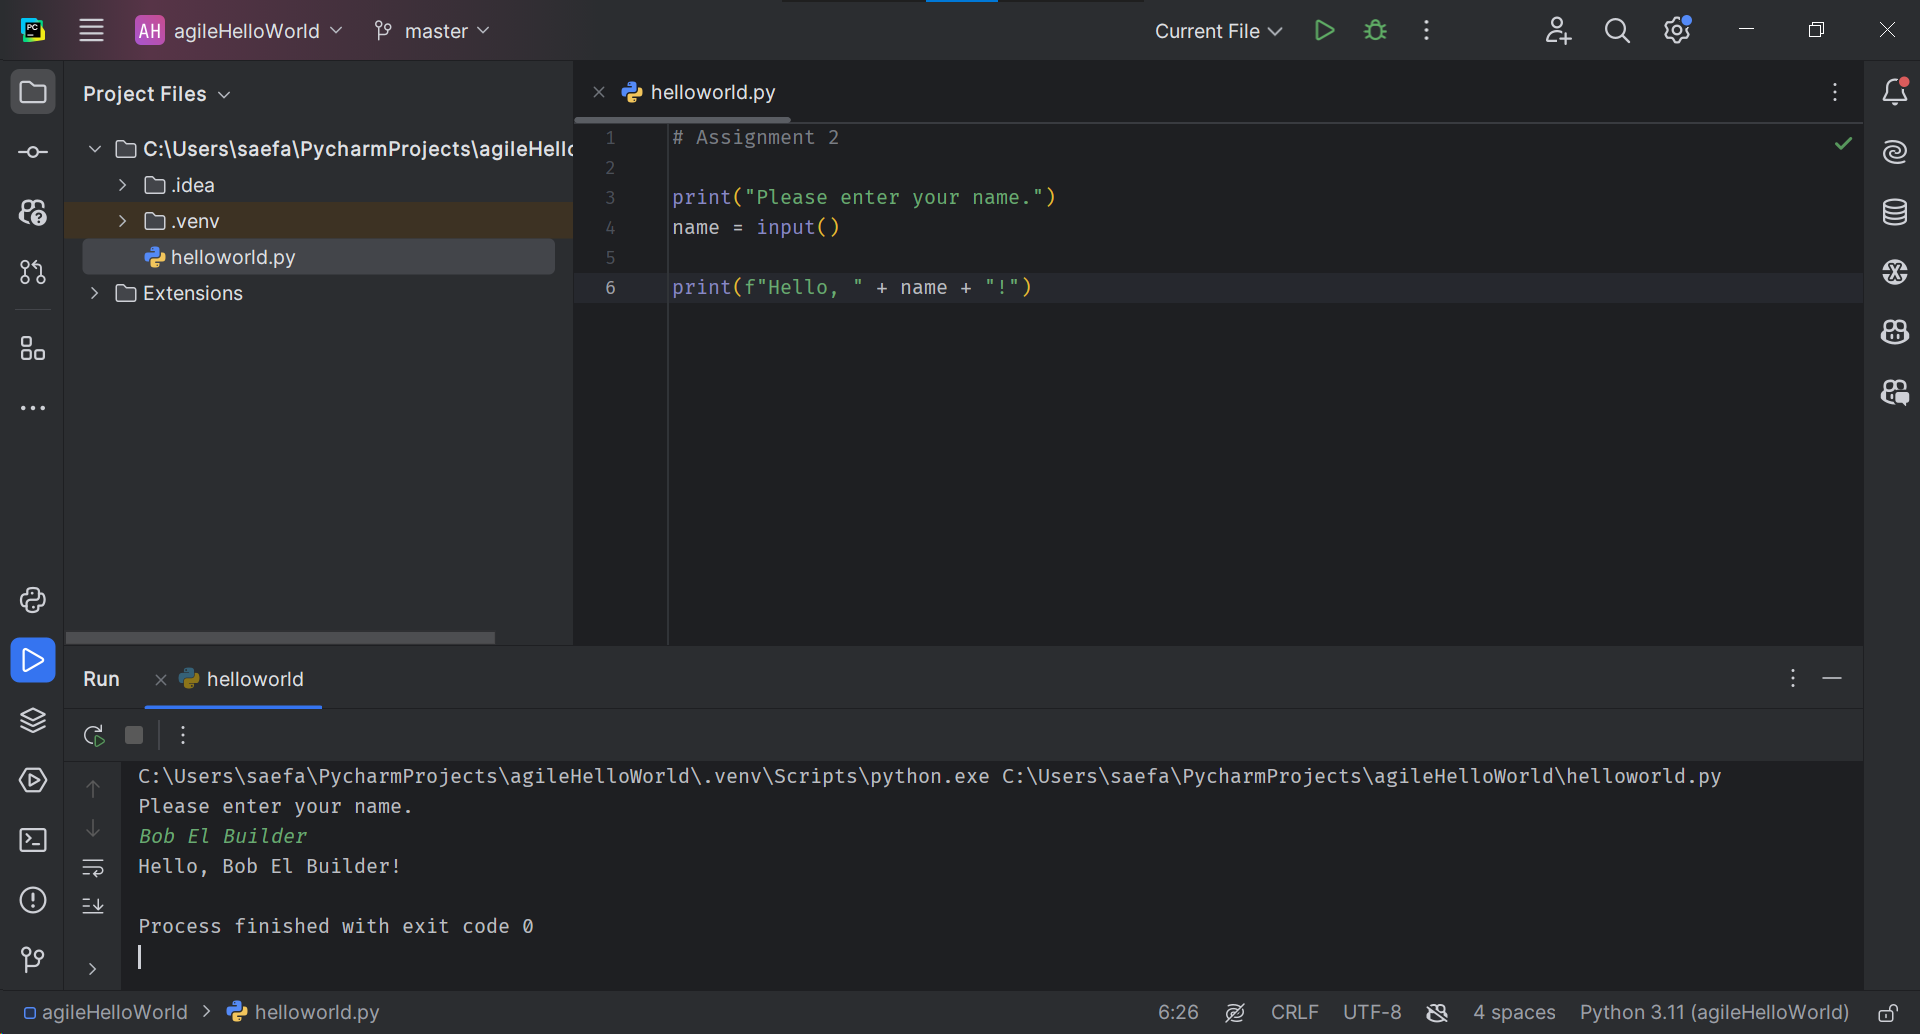
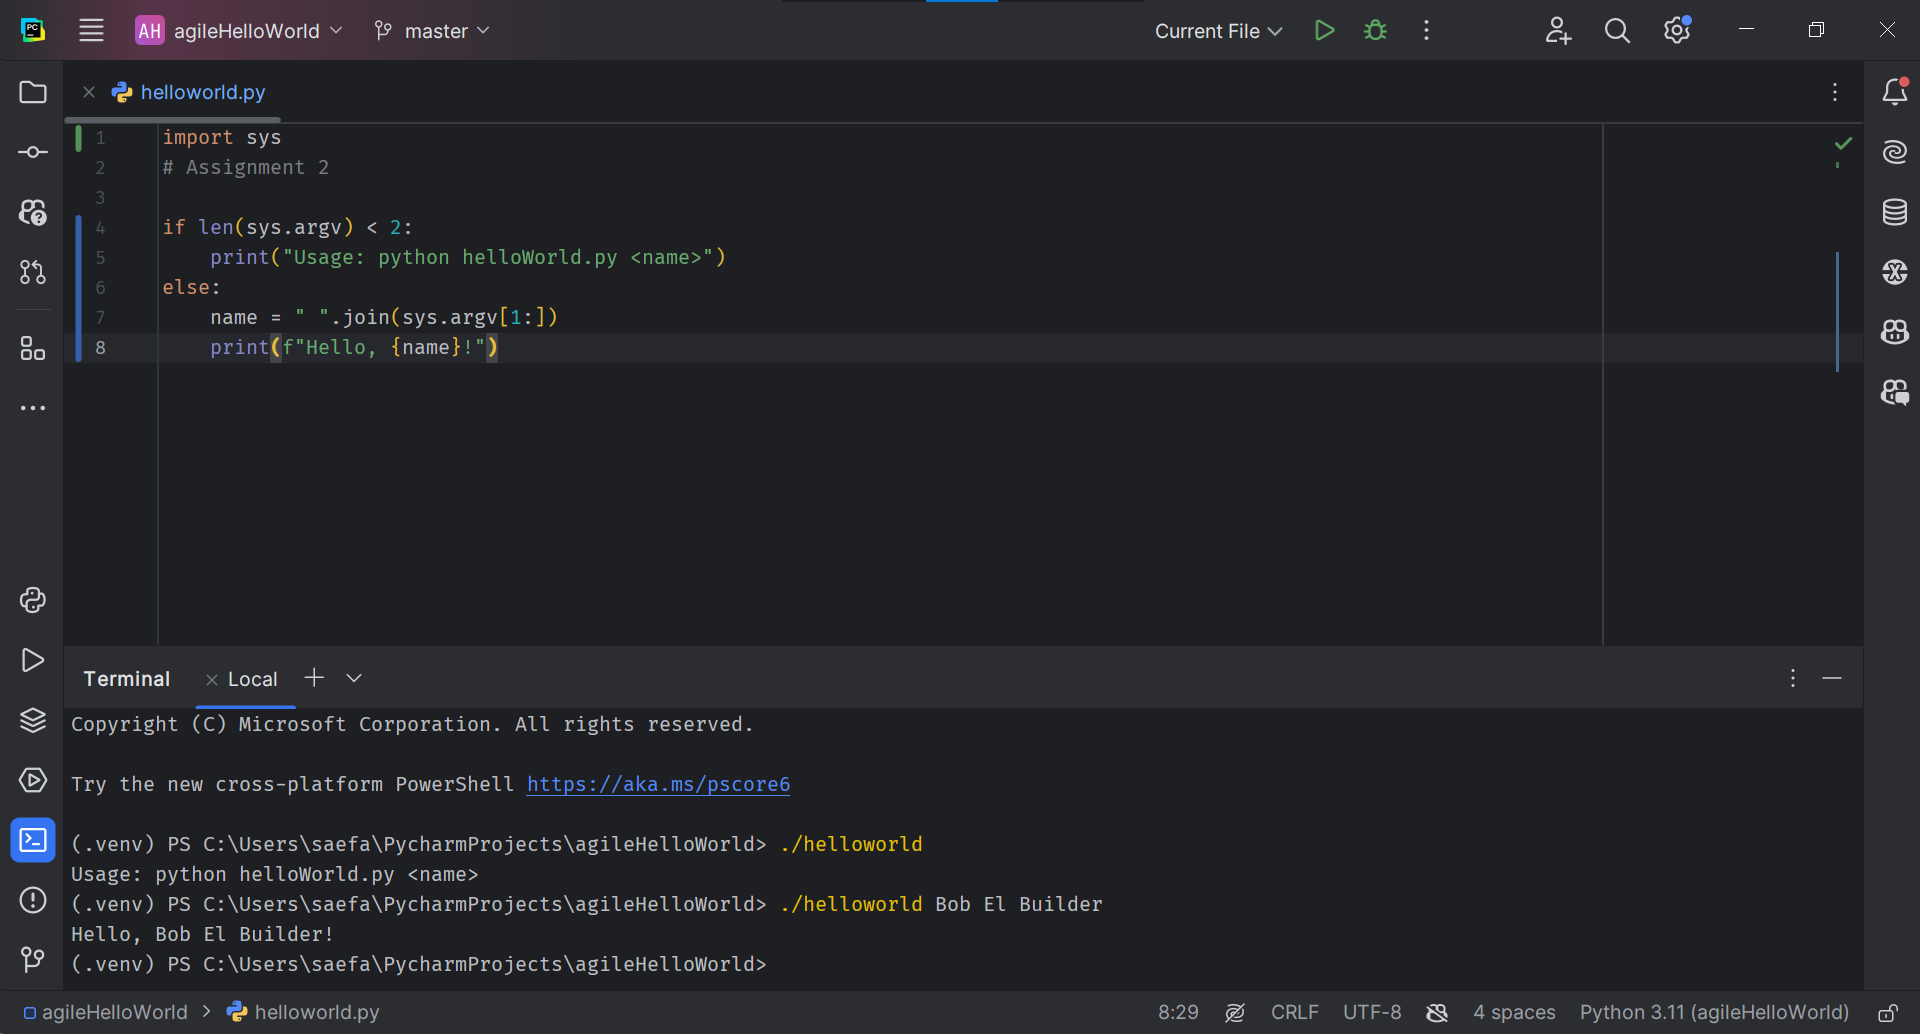
+ Altered code to use command line args + Included new image of validation

diff --git a/helloworld.py b/helloworld.py
@@ -1,6 +1,8 @@
+import sys
 # Assignment 2
 
-print("Please enter your name.")
-name = input()
-
-print(f"Hello, " + name + "!")
+if len(sys.argv) < 2:
+    print("Usage: python helloWorld.py <name>")
+else:
+    name = " ".join(sys.argv[1:])
+    print(f"Hello, {name}!")
